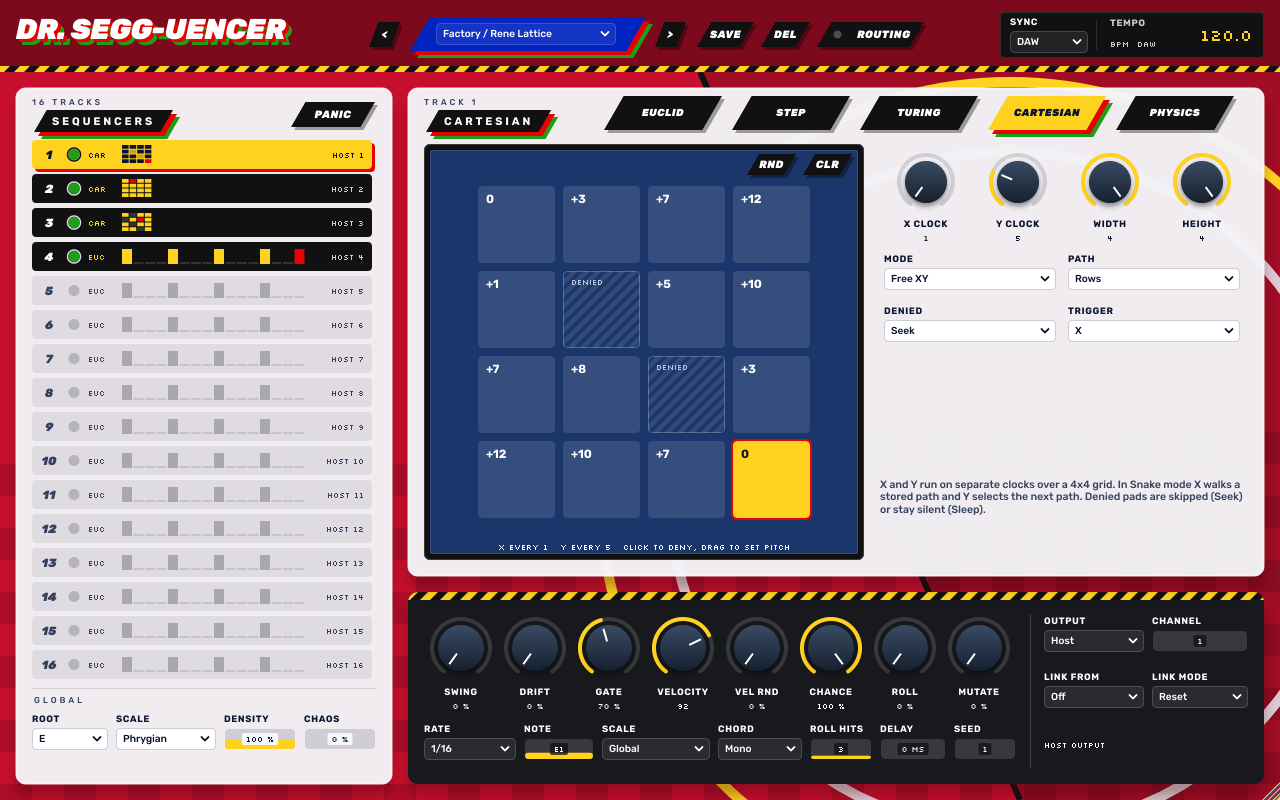
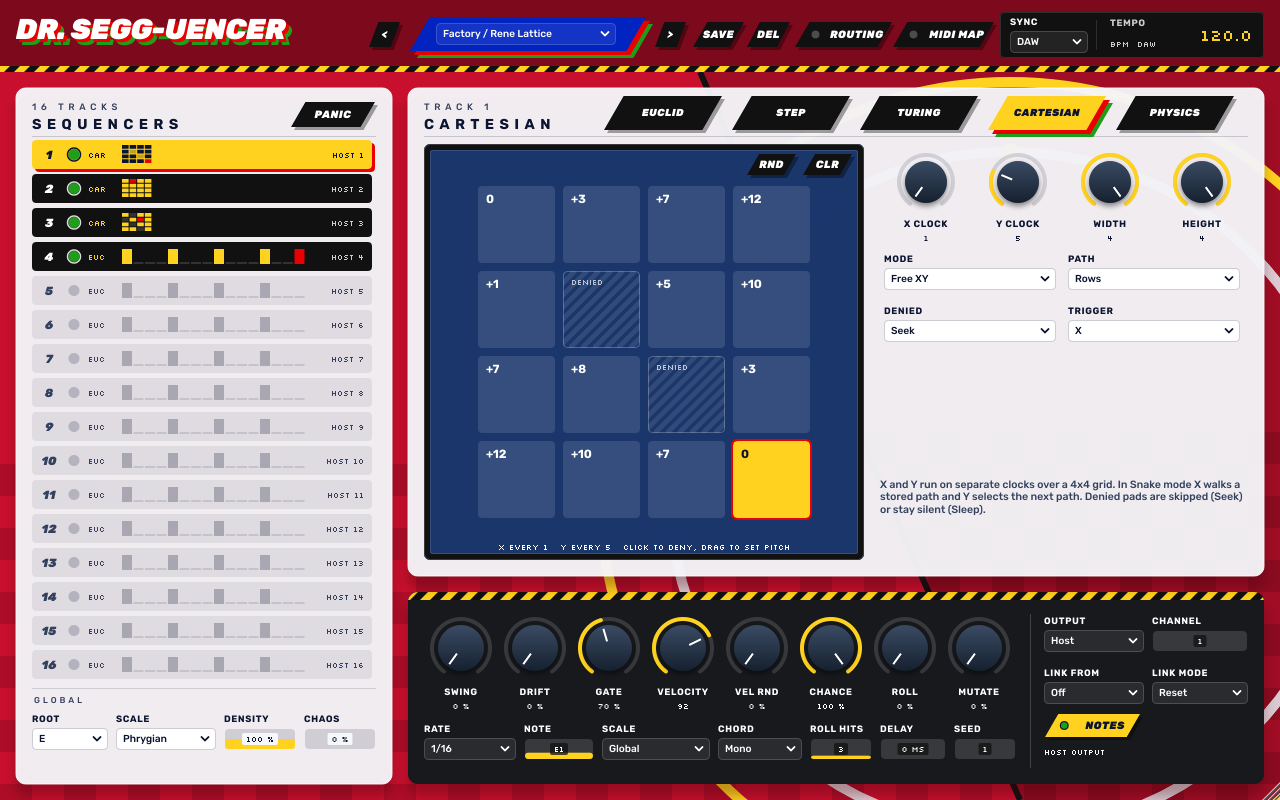
Titoli delle sezioni come testo, versione 0.1.7
Claude-Session: https://claude.ai/code/session_01SwQZcF2YmXFkMJARQLmTSR

diff --git a/Source/SeggUI.h b/Source/SeggUI.h
@@ -100,7 +100,8 @@ inline void hazard (juce::Graphics& g, juce::Rectangle<float> r, float band = 10
     }
 }
 
-/** Glass panel with its two-line title: kicker word, then the section word on a tagged plate. */
+/** Glass panel with its two-line title, set as plain type: a light, widely tracked kicker over the section word,
+    both flush left, then a hairline across the panel. No plate and no shadow behind the words. */
 inline void glassPanel (juce::Graphics& g, juce::Rectangle<float> r, const juce::String& kicker, const juce::String& title)
 {
     juce::Path body;
@@ -111,16 +112,15 @@ inline void glassPanel (juce::Graphics& g, juce::Rectangle<float> r, const juce:
     g.setColour (c::glassEdge);
     g.strokePath (body, juce::PathStrokeType (1.0f));
 
+    const int x = (int) r.getX() + 16, w = (int) r.getWidth() - 32;
     g.setColour (c::inkSoft);
-    g.setFont (medium (10.0f, 0.3f));
-    g.drawText (kicker.toUpperCase(), (int) r.getX() + 16, (int) r.getY() + 8, 200, 12, juce::Justification::left);
-    const auto f = bold (13.0f, 0.22f);
-    const float tw = juce::GlyphArrangement::getStringWidth (f, title.toUpperCase()) + 36.0f;
-    auto tr = juce::Rectangle<float> (r.getX() + 18, r.getY() + 22, tw, 22);
-    taggedPlate (g, tr, c::plate);
-    g.setColour (c::onPlate);
-    g.setFont (f);
-    g.drawText (title.toUpperCase(), tr.reduced (14, 0), juce::Justification::centred);
+    g.setFont (medium (11.0f, 0.42f));
+    g.drawText (kicker.toUpperCase(), x, (int) r.getY() + 12, w, 13, juce::Justification::left);
+    g.setColour (c::ink);
+    g.setFont (bold (17.0f, 0.32f));
+    g.drawText (title.toUpperCase(), x, (int) r.getY() + 26, w, 20, juce::Justification::left);
+    g.setColour (c::ink.withAlpha (0.18f));
+    g.fillRect ((float) x, r.getY() + 48.0f, (float) w, 1.0f);
 }
 
 /** Controls on a dark ground (header plates, modulation deck) carry this property. */

diff --git a/CHANGELOG.md b/CHANGELOG.md
@@ -1,5 +1,8 @@
 # Changelog
 
+## [0.1.7] - 2026-11-04
+- Titoli delle sezioni solo testo, senza piastra né ombra: una riga piccola e spaziata sopra il nome della sezione, entrambe allineate a sinistra, poi una linea sottile su tutto il pannello.
+
 ## [0.1.6] - 2026-11-04
 - **Uscite CV**: nuova scheda `CV` in ROUTING. 16 uscite, come uscite audio aggiuntive del plugin a coppie stereo, da usare con un'interfaccia DC-coupled. Ogni riga assegna a un'uscita Pitch (1 V/ottava), Gate, Trigger, Velocity, Random, Position X o Position Y di una traccia, con Min e Max in volt e Slew.
 - `FULL SCALE` e `NOTE AT 0 V` adattano le tensioni all'interfaccia. La tabella si salva anche nei preset, questi due valori solo con il progetto.
